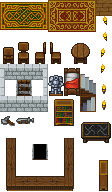
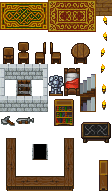
Lighting effects in testing.world

Changed region(s): [[0.6964, 0.375, 0.8571, 0.5]]

diff --git a/src/testing/areas/g01_update.py b/src/testing/areas/g01_update.py
@@ -1,0 +1,11 @@
+if drinking == True:
+	if color_up == True:
+		overlay_alpha += 6
+		if overlay_alpha > 192:
+			color_up = False
+		Area.color_overlay(255, 255, 255, overlay_alpha)
+	elif color_up == False:
+		overlay_alpha -= 6
+		if overlay_alpha < 6:
+			drinking = False
+		Area.color_overlay(255, 255, 255, overlay_alpha)

diff --git a/src/testing/areas/g01_well.py b/src/testing/areas/g01_well.py
@@ -1,5 +1,7 @@
-snd = Sound.play("sounds/splash.oga") # splash sound
-snd.speed = 1.0 + randfloat(-0.1, 0.1)
-
-Area.color_overlay(255, 255, 255, 127)
+if drinking == False:
+	drinking = True
+	color_up = True
+	overlay_alpha = 0
+	snd = Sound.play("sounds/splash.oga") # splash sound
+	snd.speed = 1.0 + randfloat(-0.1, 0.1)
 

diff --git a/src/testing/areas/g01_load.py b/src/testing/areas/g01_load.py
@@ -1,0 +1,2 @@
+drinking = False
+
